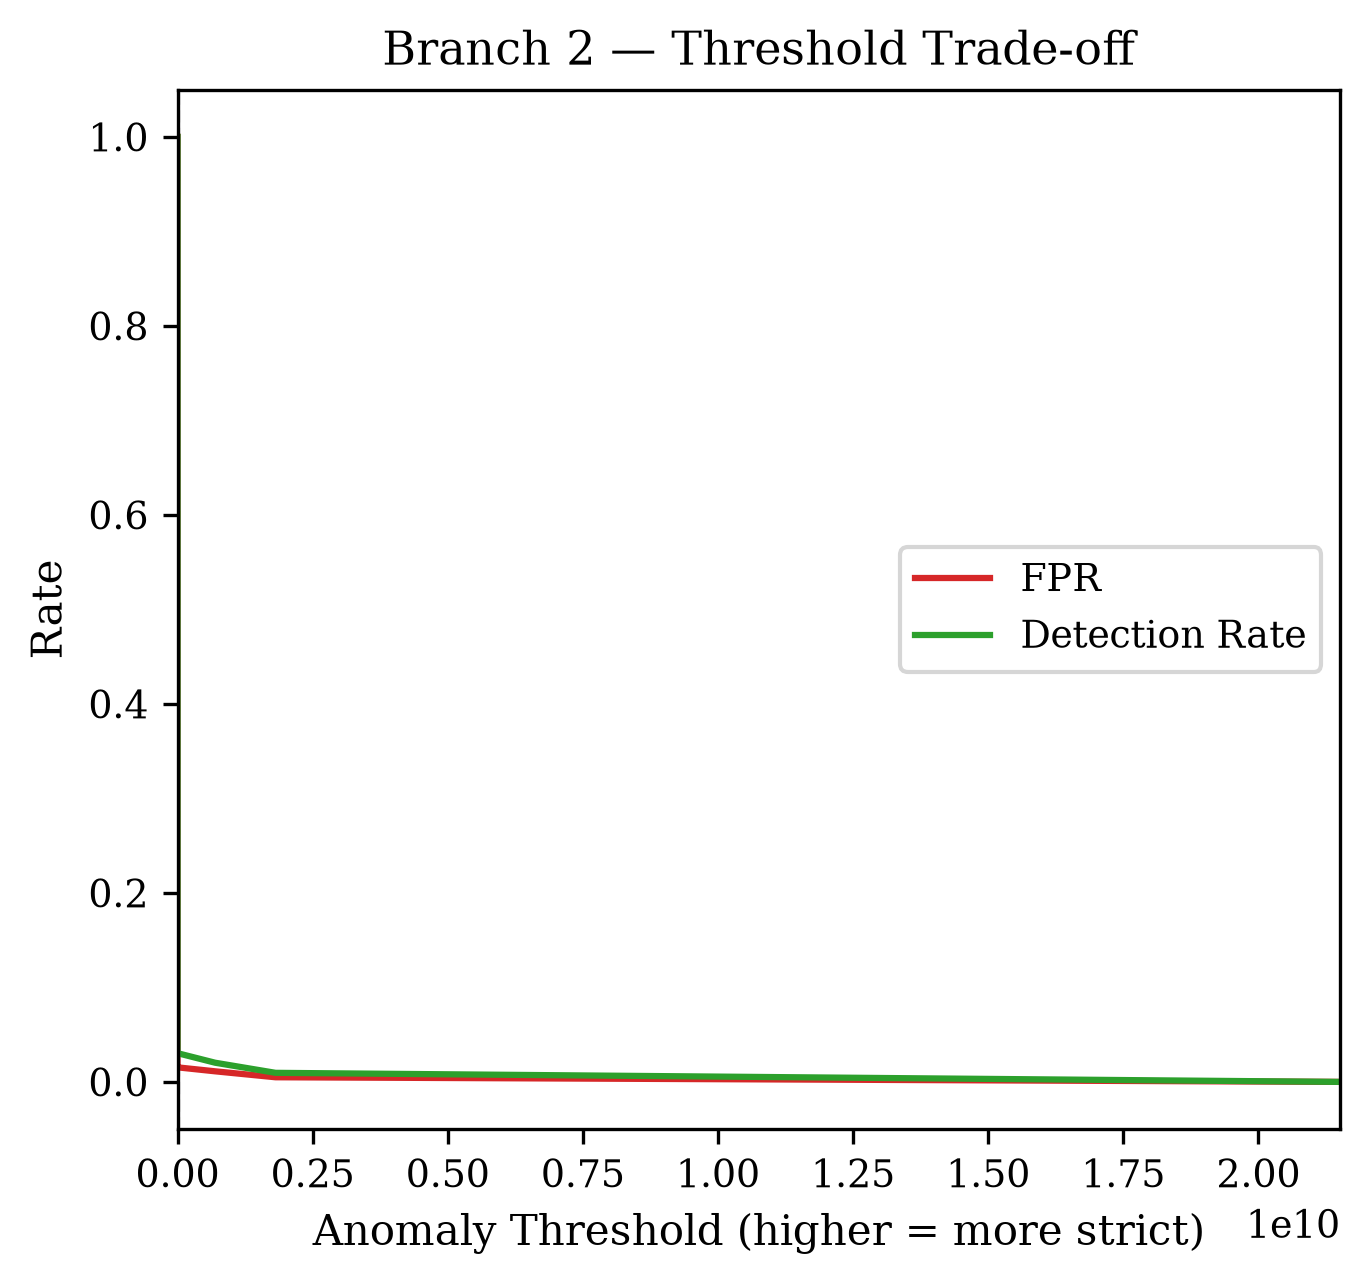
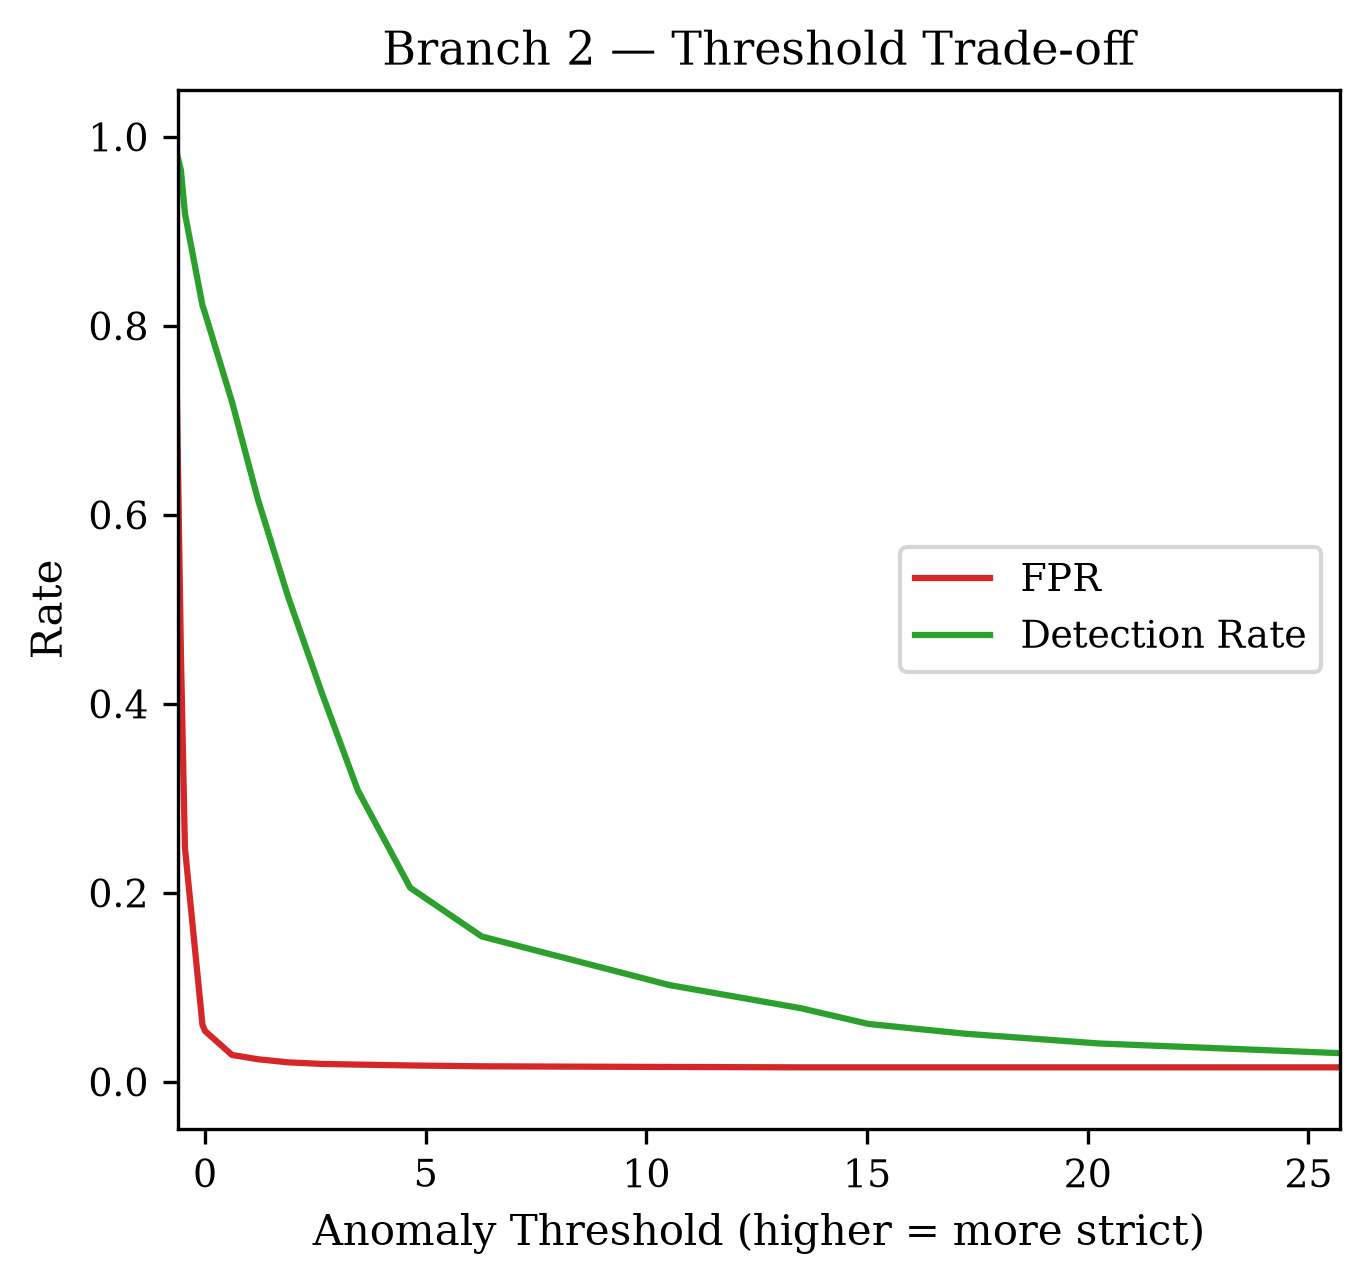
Branch2: clip outlier tail + normalize density in score-dist/threshold figures
LOF's score is an unbounded density ratio -- ~1-3% of points (near
duplicate-heavy training regions) land at extreme values, which stretched
branch2_score_dist.png / branch2_threshold_tradeoff.png's axes so far the
entire informative distribution collapsed into a sliver near the origin.
Clip the chart viewport to the 0.5-97th percentile (report/metrics/
branch2_threshold_sweep.csv still records the true min/max). Also switched
the score-dist histogram to density=True so the benign class (n=7.9K) is
visible against the anomalous class (n=270K) instead of being dwarfed by
raw frequency counts. No change to any reported metric.

diff --git a/train/generate_metrics.py b/train/generate_metrics.py
@@ -275,6 +275,18 @@ def compute_branch2_metrics(detector, test_benign, anom_df):
         writer.writerows(sweep_rows)
     logger.info("[Branch 2] Threshold sweep saved to %s (%d rows)", sweep_path, len(sweep_rows))
 
+    # Display range for the two plots below, clipped to the 0.5-97th
+    # percentile of all scores rather than true min/max. Some estimators
+    # (LOF in particular — a density RATIO, unbounded above) can put ~1-3%
+    # of points at extreme values (near-duplicate-heavy training regions
+    # blow up the ratio for anything not in that exact cluster), which
+    # otherwise stretches the axis so far that the entire informative bulk
+    # of the distribution collapses into a sliver near the origin. The
+    # underlying threshold_sweep CSV still records the true min/max/all
+    # percentiles — only these two chart's VIEWPORT is clipped.
+    display_lo = float(np.percentile(scores_all, 0.5))
+    display_hi = float(np.percentile(scores_all, 97))
+
     # ── Threshold Trade-off Plot ──
     fig, ax1 = plt.subplots(figsize=(5, 4.5))
     fpr_vals = [r["fpr"] for r in sweep_rows]
@@ -287,18 +299,24 @@ def compute_branch2_metrics(detector, test_benign, anom_df):
     ax1.set_ylabel("Rate")
     ax1.set_title("Branch 2 — Threshold Trade-off")
     ax1.legend(loc="center right")
-    ax1.set_xlim(min(thresh_vals), max(thresh_vals))
+    ax1.set_xlim(display_lo, display_hi)
     fig.savefig(FIGURES_DIR / "branch2_threshold_tradeoff.png")
     plt.close(fig)
     logger.info("[Branch 2] Threshold trade-off plot saved")
 
     # ── Score Distribution ──
+    # density=True so the two classes are visually comparable despite the
+    # huge sample-size imbalance (benign n=7.9K vs anomalous n=270K) — a
+    # raw-frequency histogram would dwarf the benign bars regardless of how
+    # well-separated the two distributions actually are.
     fig, ax = plt.subplots(figsize=(5, 4.5))
-    ax.hist(benign_scores, bins=50, alpha=0.7, color="#1f77b4", label=f"Benign (n={len(benign_scores)})")
-    ax.hist(anom_scores, bins=50, alpha=0.6, color="#d62728", label=f"Anomalous (n={len(anom_scores)})")
+    ax.hist(benign_scores, bins=50, range=(display_lo, display_hi), density=True, alpha=0.6,
+             color="#1f77b4", label=f"Benign (n={len(benign_scores)})")
+    ax.hist(anom_scores, bins=50, range=(display_lo, display_hi), density=True, alpha=0.5,
+             color="#d62728", label=f"Anomalous (n={len(anom_scores)})")
     ax.axvline(x=current_thresh_approx, color="gray", ls="--", lw=1, alpha=0.7)
     ax.set_xlabel("Anomaly Score")
-    ax.set_ylabel("Frequency")
+    ax.set_ylabel("Density")
     ax.set_title("Branch 2 — Score Distribution")
     ax.legend(fontsize=8)
     fig.savefig(FIGURES_DIR / "branch2_score_dist.png")
